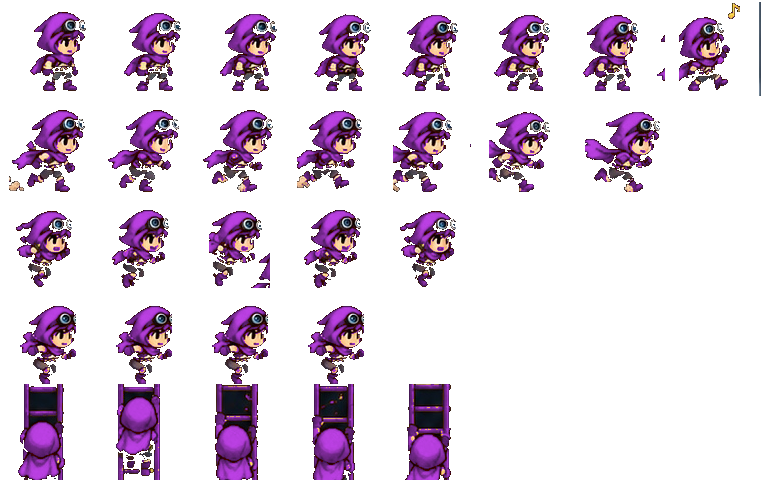
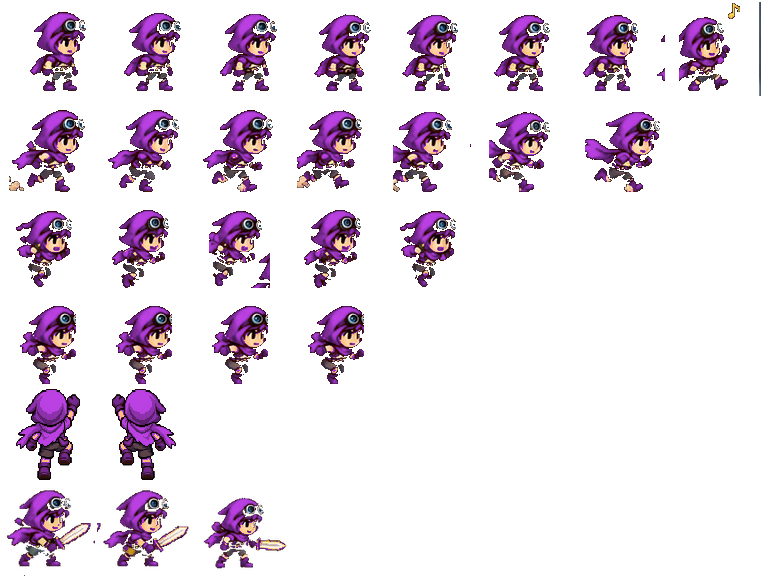
Rebuild Green Hills pixel art and hero action animations

diff --git a/web/render.js b/web/render.js
@@ -2,6 +2,7 @@ import {drawSnake} from "./snake-art.js";
 import { worlds } from "/shared/content.js";
 const platformArt = typeof Image === "undefined" ? {} : Object.fromEntries(
   [["valley", "/assets/platformer/valley.webp"], ["terrain", "/assets/platformer/grass-stone.webp"], ["chest", "/assets/platformer/chest.webp"],
+   ...["grass-cliff","ancient-stone","cave-interior","wood-bridge","castle-green","castle-ruins"].map(name=>[name,"/assets/platformer/"+name+".webp"]),
    ...["animations","blue","green","yellow","black","white","purple"].map(name=>["hero-"+name,"/assets/platformer/hero-"+name+".png"])]
     .map(([name, path]) => { const image = new Image(); image.src = path; return [name, image]; }),
 );
@@ -116,9 +117,10 @@ function drawHero(c,s,z,skin) {
     actor(c,s.player.x*z,s.player.y*z,z,"#e84b3b",Math.floor(s.tick/5));return;
   }
   const climbing=(s.ladders||[]).some(l=>Math.abs(s.player.x-l.x)<.7 && s.player.y>=l.y-1 && s.player.y<l.bottom-1 && Math.abs(s.player.vy)>.02);
-  const row=climbing?4:s.player.vy<-.09?2:s.player.vy>.14?3:Math.abs(s.player.vx)>.02?1:0;
-  const frames=[7,7,2,1,5][row], speed=row===1?4:row===4?7:11;
-  const frame=Math.floor(s.tick/speed)%frames;
+  const attacking=s.tick<(s.attackingUntil||0);
+  const row=attacking?5:climbing?4:s.player.vy<-.09?2:s.player.vy>.14?3:Math.abs(s.player.vx)>.02?1:0;
+  const frames=[7,7,2,1,2,3][row], speed=row===1?4:row===4?7:11;
+  const frame=attacking?Math.min(2,Math.floor((s.tick-s.attackStarted)/4)):Math.floor(s.tick/speed)%frames;
   const x=s.player.x*z-.72*z,y=(s.player.y+.9)*z-2.08*z;
   c.save();c.imageSmoothingEnabled=false;
   if(s.facing<0){c.translate((2*s.player.x+.7)*z,0);c.scale(-1,1);}
@@ -354,15 +356,35 @@ export function render(c, s, color = "#bdff70", settings = {}, skin = {}) {
       if(s.world===1)rect(c,0,0,24*z,17*z,"#8c706244");
       if(s.world===2)rect(c,0,0,24*z,17*z,"#3b323d99");
       if(s.world===3)rect(c,0,0,24*z,17*z,"#07284899");
-      drawLandmark(c,z,s.world,s.level===2 || s.level===3,s.mainY===8);
+      const castle=platformArt[s.level===1?"castle-green":"castle-ruins"];
+      if(s.world===0 && castle?.complete && castle.naturalWidth){
+        c.imageSmoothingEnabled=false;
+        // The castle sits on the distant ridge, behind the playable platforms.
+        c.drawImage(castle,10.2*z,1.15*z,13*z,8.65*z);
+      } else drawLandmark(c,z,s.world,s.level===2 || s.level===3,s.mainY===8);
     }
     c.save();
     c.translate(-camera * z, 0);
+    if(s.mainY===8){
+      const cave=platformArt["cave-interior"];
+      if(cave?.complete && cave.naturalWidth){
+        c.imageSmoothingEnabled=false;
+        for(const f of s.platforms.filter(f=>f.type==="ground"))
+          for(let sx=f.x;sx<f.x+f.w;sx+=5)
+            c.drawImage(cave,sx*z,11*z,Math.min(5,f.x+f.w-sx)*z,3*z);
+      }
+    }
     for (const f of s.platforms) {
       if (f.type === "falling" && f.trigger && s.tick - f.trigger > 22) continue;
       if (f.type === "vanish" && Math.floor(s.tick / 45) % 2) continue;
       if(f.type==="bridge"){
         const left=f.x*z,top=f.y*z;
+        const bridge=platformArt["wood-bridge"];
+        if(grassWorld && bridge?.complete && bridge.naturalWidth){
+          c.imageSmoothingEnabled=false;
+          c.drawImage(bridge,left,top-z*.65,f.w*z,z*1.05);
+          continue;
+        }
         c.strokeStyle="#4d3229";c.lineWidth=Math.max(2,z*.11);
         c.beginPath();c.moveTo(left,top-z*.65);c.quadraticCurveTo(left+f.w*z/2,top-z*.28,left+f.w*z,top-z*.65);c.stroke();
         for(let i=0;i<f.w*2;i++){
@@ -375,8 +397,15 @@ export function render(c, s, color = "#bdff70", settings = {}, skin = {}) {
         }
         continue;
       }
+      const cliff=platformArt["grass-cliff"], stone=platformArt["ancient-stone"];
       for (let i = 0; i < f.w; i++) {
-        if (grassWorld && terrain?.complete && terrain.naturalWidth) {
+        if(grassWorld && cliff?.complete && cliff.naturalWidth){
+          c.imageSmoothingEnabled=false;
+          // Crop four different stretches of the painted cliff so its plants
+          // and rock forms continue across tiles without a repeated stamp.
+          const stripe=Math.floor((i+f.x)%4),sw=cliff.naturalWidth/4;
+          c.drawImage(cliff,stripe*sw,0,sw,cliff.naturalHeight*.48,(f.x+i)*z,f.y*z,z,z);
+        } else if (grassWorld && terrain?.complete && terrain.naturalWidth) {
           c.imageSmoothingEnabled=false;
           c.drawImage(terrain,(f.x+i)*z,f.y*z,z,z);
         } else {
@@ -385,19 +414,16 @@ export function render(c, s, color = "#bdff70", settings = {}, skin = {}) {
         }
         if (f.type === "ground" || f.type === "lower")
           for (let j = 1; j < (f.type==="lower"?4:s.mainY===8?3:4); j++)
-            if (grassWorld && terrain?.complete && terrain.naturalWidth)
+            if (grassWorld && cliff?.complete && cliff.naturalWidth){
+              const rock=f.type==="lower"?stone:cliff;
+              const sx=((i*7+j*3)%4)*rock.naturalWidth/4;
+              c.drawImage(rock,sx,rock.naturalHeight*.45,rock.naturalWidth/4,rock.naturalHeight*.4,(f.x+i)*z,(f.y+j)*z,z,z);
+            }
+            else if (grassWorld && terrain?.complete && terrain.naturalWidth)
               c.drawImage(terrain,0,32,128,96,(f.x+i)*z,(f.y+j)*z,z,z);
             else tile(c, (f.x + i) * z, (f.y + j) * z, z, "#30303c");
       }
-      if(s.mainY===8 && f.type==="ground"){
-        for(const edge of [f.x,f.x+f.w-1]){
-          for(let cy=11;cy<14;cy++){
-            if(grassWorld && terrain?.complete && terrain.naturalWidth)
-              c.drawImage(terrain,0,32,128,96,edge*z,cy*z,z,z);
-            else tile(c,edge*z,cy*z,z,"#47445e");
-          }
-        }
-      }
+      // The open cave passage below has no false decorative collision walls.
     }
     for(const ladder of s.ladders||[]){
       const lx=ladder.x*z, top=ladder.y*z;
@@ -407,10 +433,10 @@ export function render(c, s, color = "#bdff70", settings = {}, skin = {}) {
         rect(c,lx-z*.16,ly*z,z*.64,z*.13,"#ca9663");
     }
     if(s.level===1 && s.player.x>25 && s.player.x<48){
-      const rx=34.6*z,ry=(s.mainY-3)*z;
+      const rx=(s.medallionLost?38.2:32.5)*z,ry=(s.mainY-1.4)*z;
       c.save();c.shadowColor="#5be8ff";c.shadowBlur=z*.7;c.strokeStyle=s.medallionLost?"#9bc1ff":"#78f8ff";
       c.lineWidth=z*.15;c.beginPath();c.ellipse(rx,ry,z*.55,z*1.4,Math.sin(s.tick/17)*.12,0,Math.PI*2);c.stroke();c.restore();
-      if(!s.medallionLost)actor(c,35.6*z,(s.mainY-1.7)*z,z,"#96a9e6",0);
+      if(!s.medallionLost)actor(c,33*z,(s.mainY-1.5)*z,z,"#96a9e6",0);
     }
     for (const chest of s.chests || []){
       drawChest(c,chest,z);

diff --git a/games/platformer/index.js b/games/platformer/index.js
@@ -16,6 +16,8 @@ export function init(s) {
     kills: 0,
     projectiles: [],
     facing: 1,
+    attackingUntil: 0,
+    attackStarted: 0,
     storyIndex: 0,
     storyQueue: [],
     storyCue: null,
@@ -52,6 +54,7 @@ export function step(s, input) {
     oldY = p.y;
   const actionPressed=!!(input&32) && !s.actionWas;
   s.actionWas=!!(input&32);
+  if(actionPressed){s.attackStarted=s.tick;s.attackingUntil=s.tick+12;}
   let moving = 0;
   if (input & 2) moving++;
   if (input & 8) moving--;
@@ -185,21 +188,21 @@ export function step(s, input) {
     if (Math.abs(e.x - e.home) > 3) e.vx *= -1;
     if (["ranged", "boss"].includes(e.type) && s.tick % 60 === 0)
       s.projectiles.push({ x: e.x, y: e.y, dx: Math.sign(p.x - e.x) * 0.16 });
+    if (
+      actionPressed && Math.sign(e.x-p.x)===s.facing &&
+      Math.abs(p.x - e.x) < 2.1 &&
+      Math.abs(p.y - e.y) < 1.8
+    ) {
+      e.hp--;
+      s.score += 10;
+    }
+    if(e.hp<=0)continue;
     if (Math.abs(p.x - e.x) < 0.85 && Math.abs(p.y - e.y) < 1) {
       if (p.vy > 0 && oldY + 0.5 < e.y) {
         e.hp--;
         p.vy = -0.33;
         s.score += 30;
       } else hit(s);
-    }
-    if (
-      input & 32 &&
-      s.tick % 20 === 0 &&
-      Math.abs(p.x - e.x) < 1.8 &&
-      Math.abs(p.y - e.y) < 1.8
-    ) {
-      e.hp--;
-      s.score += 10;
     }
   }
   s.kills += s.enemies.filter((e) => e.hp <= 0).length;

diff --git a/games/platformer/levels.js b/games/platformer/levels.js
@@ -93,7 +93,13 @@ export function buildLevel(level) {
   // The key sits along the upper approach to its chained chest.
   const keys=chests.filter(c=>c.locked).map(c=>({x:c.x-3,y:level<=3?Math.max(4.2,c.y-1.25):c.y-1.25,taken:false}));
   const ladders=elevated.filter((_,i)=>i%3===0).map(f=>({x:f.x+1,y:f.y,bottom:mainY}));
-  if(level<=3)ladders.push({x:13.5,y:mainY,bottom:14});
+  if(level<=3){
+    // Every lower passage has a visible return route on both banks.
+    for(const ground of platforms.filter(f=>f.type==="ground")){
+      if(ground.x+2<def.length-2)ladders.push({x:ground.x+1.5,y:mainY,bottom:14});
+      if(ground.x+ground.w-2>3)ladders.push({x:ground.x+ground.w-1.5,y:mainY,bottom:14});
+    }
+  }
   const upperCoins=Array.from({length:16},(_,i)=>({x:5+i*Math.max(4,Math.floor((def.length-12)/16)),y:mainY-4+(i%3)})).filter(c=>c.x<def.length-5);
   if(level<=3)upperCoins.push({x:11,y:12.2},{x:26,y:12.2});
   return {...def,layoutVersion:3,mainY,platforms,enemies,chests,keys,ladders,

diff --git a/tests/engine.test.js b/tests/engine.test.js
@@ -204,6 +204,21 @@ test("Green Hills theft happens during play and ladder climbs toward the first l
   tick(climb, 1);
   assert.ok(climb.player.y < y, "up input climbs the ladder");
 });
+test("platformer action starts a sword swing and hits only toward the enemy", () => {
+  const s=createGame("platformer","sword",1);
+  s.traps=[];s.chests=[];
+  s.player.x=4;s.player.y=7.1;s.ground=true;
+  s.enemies=[{x:5.2,y:6.8,vx:0,type:"patrol",hp:2,home:5.2}];
+  tick(s,32);
+  assert.equal(s.enemies[0].hp,1);
+  assert.ok(s.attackingUntil>s.tick);
+  tick(s,32);
+  assert.equal(s.enemies[0].hp,1,"holding action should not hit every frame");
+  tick(s,0);
+  s.facing=-1;
+  tick(s,32);
+  assert.equal(s.enemies[0].hp,1,"sword must face the target");
+});
 test("loot pity guarantees legendary; weights cover low and high roll", () => {
   assert.equal(rollLoot(19, defaultConfig, () => 0).skin.rarity, "LEGENDARY");
   assert.equal(rollLoot(0, defaultConfig, () => 0).skin.rarity, "COMMON");
